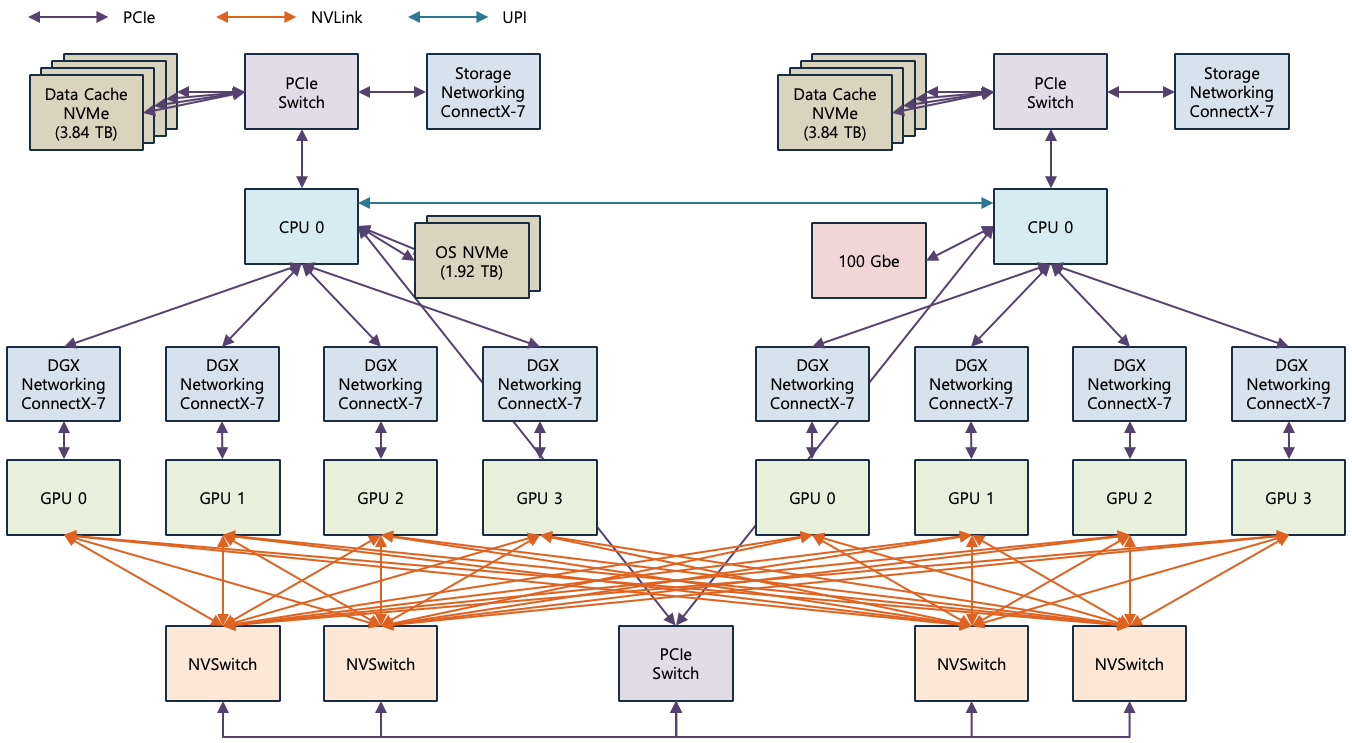
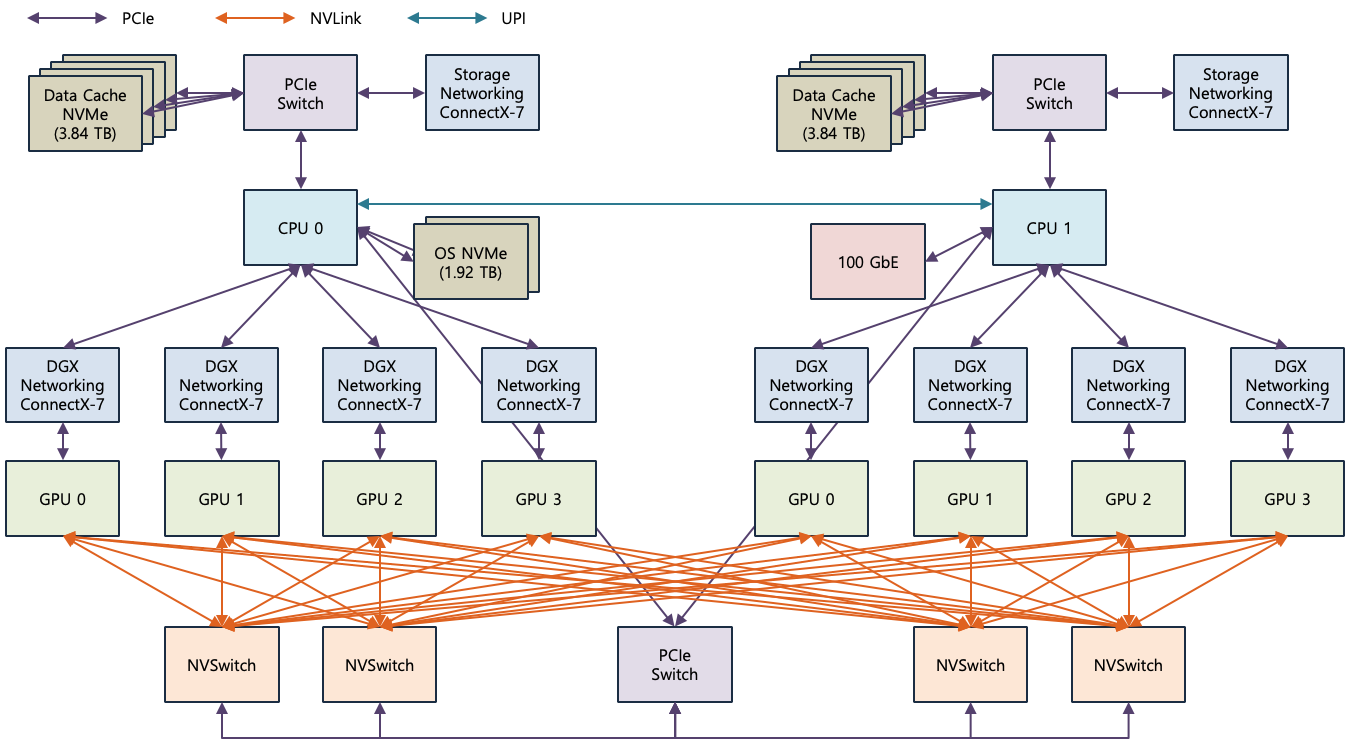
update

diff --git a/content/docs/theory-analysis/nvidia-gpu-architecture/index.en.md b/content/docs/theory-analysis/nvidia-gpu-architecture/index.en.md
@@ -1,0 +1,77 @@
+---
+title: NVIDIA GPU Architecture
+---
+
+## 1. NVIDIA GPU Architecture
+
+### 1.1. GPU Architecture
+
+{{< figure caption="[Figure 1] NVIDIA H100 GPU Architecture" src="images/nvidia-h100-gpu-architecture.png" width="1100px" >}}
+
+[Figure 1] shows the architecture of the H100 GPU. Starting from the **H100 GPU chip** as a whole, it passes through the **SM (Streaming Multiprocessor)** stage that performs the main compute work, then zooms in sequentially to **Sub-cores** inside the SM, presenting the architecture step by step.
+
+#### 1.1.1. GPU Chipset
+
+* **PCI Express** : The GPU connects to the CPU or network card through the PCI Express interface. The H100 GPU uses the PCI Express 5.0 interface.
+* **GigaThread Engine** : Responsible for creating and managing thousands or hundreds of GPU threads at the same time. It distributes created GPU threads across multiple SMs and manages them so that idle SMs do not occur. When multiple apps use the GPU via time-slicing, it also handles GPU context switching. The MIG (Multi-Instance GPU) feature available from the A100 GPU onward was also implemented by extending the GigaThread Engine.
+* **GPC (GPU Processing Cluster)** : The largest unit that groups SMs. The H100 GPU has 8 GPCs.
+* **TPC (Texture Processing Clusters)** : The unit below GPC that groups SMs; it handles texture sampling/filtering, vertex fetch, and tessellation. The H100 GPU has 8 TPCs per GPC. Each TPC contains 2 SMs.
+* **L2 Cache** : Acts as a data cache shared by all SMs and is used to minimize GPU access to memory. On the H100 GPU, the L2 cache is split into 2 partitions, operates on a NUMA (Non-Uniform Memory Access) basis, and each partition has 60 MB of capacity.
+* **Memory Controller** : Controls memory. The H100 GPU has 12 memory controllers; 2 controllers form a pair to build a 1024-bit bus and control one HBM3 stack.
+* **Memory** : Serves as global (shared) GPU memory. The H100 GPU uses HBM3 and can have up to 6 memory stacks. Each HBM3 has 16 GB capacity, for up to 96 GB total.
+* **High-speed Hub** : Acts as a hub connecting the internal GPU bus and NVLink.
+* **NVLink** : Provides a very high-speed data path for exchanging data between GPUs. The H100 GPU uses NVLink 4.0.
+
+#### 1.1.2. SM (Streaming Multiprocessor)
+
+* **L1 Instruction Cache** : Caches instructions for GPU threads running inside the SM. Because the GPU uses a SIMT (Single Instruction, Multiple Threads) structure—one instruction executed by many GPU threads at once—per-thread memory access would create a memory bottleneck. The L1 instruction cache caches instructions to minimize memory access.
+* **Sub-core** : The unit that groups the cores that actually perform computation. The H100 GPU has 4 Sub-cores.
+* **Tensor Memory Accelerator** : Manages data movement between memory and shared memory.
+* **L1 Data Cache / Shared Memory** : Caches data processed inside the SM or provides shared memory for data sharing inside the SM. On the H100 GPU, it has 256 KB capacity.
+* **Texture Units (Tex)** : Perform texture sampling and filtering. The H100 GPU has 4 texture units per SM.
+
+#### 1.1.3. Sub-core
+
+* **L0 Instruction Cache** : Caches instructions for GPU threads running inside the Sub-core.
+* **Warp Scheduler** : A **Warp** is the basic execution and scheduling unit made of 32 GPU threads; threads in a warp share the same instruction but operate on different data. The Warp Scheduler selects warps that are ready to run and sends them to execution units. If a running warp must stall, it selects another ready warp and forwards it to the execution units so that execution units stay busy.
+* **Dispatch Unit** : Decides which execution unit receives the warp selected by the Warp Scheduler.
+* **Register File** : All execution units read operands from the register file and write results back to it.
+* **INT32 Core** : Execution unit for 32-bit integer operations. The H100 GPU has 16 INT32 cores per Sub-core.
+* **FP32 Core** : Execution unit for 32-bit floating-point operations. The H100 GPU has 32 FP32 cores per Sub-core.
+* **FP64 Core** : Execution unit for 64-bit floating-point operations. The H100 GPU has 16 FP64 cores per Sub-core.
+* **Tensor Core** : Execution unit for matrix operations. The H100 GPU has one Tensor Core per Sub-core.
+* **LD/ST Unit** : Loads data from memory/cache into the register file, or stores data from the register file to memory/cache.
+* **SFU (Special Function Unit)** : Execution unit for transcendental functions such as `exp()`, `sin()`, and `cos()`. The H100 GPU has 4 SFUs per Sub-core.
+
+### 1.2. GPU Server Architecture
+
+{{< figure caption="[Figure 2] NVIDIA DGX H100 Server Architecture" src="images/nvidia-dgx-h100-server-architecture.png" width="1100px" >}}
+
+[Figure 2] shows the architecture of the NVIDIA DGX H100 server. Most GPU servers use multiple GPUs configured as a cluster. The DGX H100 server is built in a NUMA (Non-Uniform Memory Access) configuration with 8 H100 GPUs and 2 CPUs.
+
+* **CPU** : There are two Intel CPUs connected to each other via UPI (Ultra Path Interconnect). The CPUs connect directly to DGX Networking ConnectX-7 and the GPUs via PCI Express, and also connect to Data Cache NVME, Storage Networking ConnectX-7, and NVSwitch through a PCI Express switch.
+* **Data Cache NVME** : Temporarily caches data fetched from external storage (NFS, Lustre). The DGX H100 server uses four 3.84 TB NVMe drives.
+* **Storage Networking ConnectX-7** : Network interface for pulling data from external storage into Data Cache NVME. ConnectX-7 refers to NVIDIA’s SmartNIC and uses the InfiniBand protocol.
+* **OS NVME** : NVMe drives where the operating system is installed. Connected to the first CPU via PCI Express. The DGX H100 server uses two 1.92 TB NVMe drives.
+* **100Gbps Ethernet** : Network interface for management and monitoring of the GPU server. Connected to the second CPU via PCI Express.
+* **DGX Networking ConnectX-7** : Network interface for the DGX network—that is, the data-plane network of the GPU cluster. DGX Networking ConnectX-7 is connected not only to CPUs but also to GPUs via PCI Express so that, in a GPU server cluster, GPUs can access GPU memory on other GPU servers using GPUDirect RDMA (Remote Direct Memory Access) without CPU involvement.
+* **NVSwitch** : Acts as a switch to fully (any-to-any) connect GPUs over NVLink. The CPU connects to NVSwitch via PCIe to control it.
+
+## 2. References
+
+* GPU Architecture: [https://medium.com/ai-insights-cobet/understanding-gpu-architecture-basics-and-key-concepts-40412432812b](https://medium.com/ai-insights-cobet/understanding-gpu-architecture-basics-and-key-concepts-40412432812b)
+* NVIDIA GPU Architecture: [https://www.cantech.in/blog/gpu-architecture/](https://www.cantech.in/blog/gpu-architecture/)
+* NVIDIA GPU Architecture: [https://www.samsungsds.com/kr/insights/nvidia-gpu-architecture.html](https://www.samsungsds.com/kr/insights/nvidia-gpu-architecture.html)
+* NVIDIA Streaming Multiprocessor (SM) : [https://modal.com/gpu-glossary/device-hardware/streaming-multiprocessor](https://modal.com/gpu-glossary/device-hardware/streaming-multiprocessor)
+* NVIDIA Warp : [https://secondspot.tistory.com/71](https://secondspot.tistory.com/71)
+* NVIDIA NVLink : [https://www.fibermall.com/ko/blog/gpu-pcle-nvlink-nvswitch.htm?srsltid=AfmBOoq5TeDty7COMp_QFG4mxVOYMwSX2kmK5Qgn72xsPj2oAt_psYkT](https://www.fibermall.com/ko/blog/gpu-pcle-nvlink-nvswitch.htm?srsltid=AfmBOoq5TeDty7COMp_QFG4mxVOYMwSX2kmK5Qgn72xsPj2oAt_psYkT)
+* NVIDIA NVLink : [https://www.fibermall.com/ko/blog/nvidia-ai-gpu-server-pcie-vs-sxm.htm?srsltid=AfmBOoomtefnOQbNbCA5NNRsbM12jn7Zj2vCSowDdTWkT6isv0IWP3gI](https://www.fibermall.com/ko/blog/nvidia-ai-gpu-server-pcie-vs-sxm.htm?srsltid=AfmBOoomtefnOQbNbCA5NNRsbM12jn7Zj2vCSowDdTWkT6isv0IWP3gI)
+* NVIDIA H100 NVLink : [https://developer.nvidia.com/ko-kr/blog/ai-%EB%B0%8F-%EA%B3%A0%EC%84%B1%EB%8A%A5-%EC%BB%B4%ED%93%A8%ED%8C%85%EC%9D%84-%EC%9C%84%ED%95%9C-%EA%B0%80%EC%86%8D-%EC%84%9C%EB%B2%84-%ED%94%8C%EB%9E%AB%ED%8F%BC-nvidia-hgx-h100/](https://developer.nvidia.com/ko-kr/blog/ai-%EB%B0%8F-%EA%B3%A0%EC%84%B1%EB%8A%A5-%EC%BB%B4%ED%93%A8%ED%8C%85%EC%9D%84-%EC%9C%84%ED%95%9C-%EA%B0%80%EC%86%8D-%EC%84%9C%EB%B2%84-%ED%94%8C%EB%9E%AB%ED%8F%BC-nvidia-hgx-h100/)
+* NVIDIA H100 Whitepaper : [https://modal-cdn.com/gpu-glossary/gtc22-whitepaper-hopper.pdf](https://modal-cdn.com/gpu-glossary/gtc22-whitepaper-hopper.pdf)
+* NVIDIA CUDA Core vs Tensor Core : [https://dreamgonfly.github.io/blog/cuda-cores-vs-tensor-cores/](https://dreamgonfly.github.io/blog/cuda-cores-vs-tensor-cores/)
+* NVIDIA DGX H100 Guide : [https://docs.nvidia.com/dgx/dgxh100-user-guide/introduction-to-dgxh100.html](https://docs.nvidia.com/dgx/dgxh100-user-guide/introduction-to-dgxh100.html)
+* NVIDIA DGX H100 Guide : [https://www.xdnode.co.kr/product/?bmode=view&idx=167230117](https://www.xdnode.co.kr/product/?bmode=view&idx=167230117)
+* NVIDIA DGX A100 Guide : [https://docs.nvidia.com/dgx/dgxa100-user-guide/introduction-to-dgxa100.html](https://docs.nvidia.com/dgx/dgxa100-user-guide/introduction-to-dgxa100.html)
+* NVIDIA DGX H100 Architecture : [https://www.hardwarezone.com.sg/pc/components/tech-news-nvidia-h100-gpu-hopper-architecture-building-block-ai-infrastructure-dgx-h100-supercomputer](https://www.hardwarezone.com.sg/pc/components/tech-news-nvidia-h100-gpu-hopper-architecture-building-block-ai-infrastructure-dgx-h100-supercomputer)
+* NVIDIA DGX H100 Architecture : [https://www.linkedin.com/pulse/network-computing-how-cluster-128-units-h100-fiberstamp-qkgrc/](https://www.linkedin.com/pulse/network-computing-how-cluster-128-units-h100-fiberstamp-qkgrc/)
+* DDR vs GDDR : [https://blog.naver.com/siencia/223773981163](https://blog.naver.com/siencia/223773981163)

diff --git a/content/docs/theory-analysis/nvidia-gpu-architecture/index.md b/content/docs/theory-analysis/nvidia-gpu-architecture/index.md
@@ -1,6 +1,5 @@
 ---
 title: NVIDIA GPU Architecture
-draft: true
 ---
 
 ## 1. NVIDIA GPU Architecture
@@ -48,11 +47,15 @@ draft: true
 
 {{< figure caption="[Figure 2] NVIDIA DGX H100 Server Architecture" src="images/nvidia-dgx-h100-server-architecture.png" width="1100px" >}}
 
-* **Data Cache NVME** :
-* **Storage Networking ConnectX-7** :
-* **OS NVME** :
-* **DGX Networking ConnectX-7** :
-* **NVSwitch** :
+[Figure 2]는 NVIDIA DGX H100 Server의 Architecture를 나타내고 있다. 대부분의 GPU Server는 다수의 GPU를 Cluster로 구성하여 이용한다. DGX H100 Server는 H100 GPU 8개와 CPU 2개를 이용하여 NUMA (Non-Uniform Memory Access) 기반으로 구성되어 있다.
+
+* **CPU** : 두 개의 Intel CPU가 존재하며, UPI (Ultra Path Interconnect)를 통해서 두 CPU가 연결되어 있다. CPU는 PCI Express Interface를 통해서 DGX Networking ConnectX-7와 GPU와 직접 연결되어 있으며, PCI Express Switch를 통해서 Data Cache NVME, Storage Networking ConnectX-7, NVSwitch와도 연결되어 있다.
+* **Data Cache NVME** : 외부 Storage (NFS, Lustre)로부터 Data를 가져와 임시로 Caching하는 역할을 수행한다. DGX H100 Server의 경우에는 4개의 3.84TB의 NVME를 이용한다.
+* **Storage Networking ConnectX-7** : 외부 Storage에서 Data를 가져와 Data Cache NVME로 저장하기 위한 Network Card Interface이다. ConnectX-7는 NVIDIA의 SmartNIC을 지징하며 InfiniBand Protocol을 이용한다.
+* **OS NVME** : 운영체제가 설치된 NVME를 의미한다. 첫번째 CPU와 PCI Express Interface를 통해서 연결되어 있다. DGX H100 Server의 경우에는 2개의 1.92TB의 NVME를 이용한다.
+* **100Gbps Ethernet** : GPU Server 관리 및 모니터링을 위한 Network와 연결된 Network Card Interface이다. 두번째 CPU와 PCI Express Interface를 통해서 연결되어 있다.
+* **DGX Networking ConnectX-7** : DGX Network 즉 GPU Cluster의 Data Plane Network를 담당하는 Network Card Interface이다. DGX Networking ConnectX-7는 CPU 뿐만 아니라 GPU와도 PCI Express Interface와도 연결되어 있는데, 이러한 이유는 GPU Server 클러스터 환경에서 GPU가 다른 GPU Server의 GPU Memory에 GPUDirect RDMA (Remote Direct Memory Access) 기반으로 CPU 개입없이 접근할 수 있도록 하기 위함이다.
+* **NVSwitch** : GPU를 NVLink를 통해서 완전히 (Any-to-Any) 연결하기 위해서 사용되는 Switch 역할을 수행한다. CPU는 NVSwitch를 제어하기 위해서 PCIe Interface를 통해서 연결되어 있다.
 
 ## 2. 참조
 
